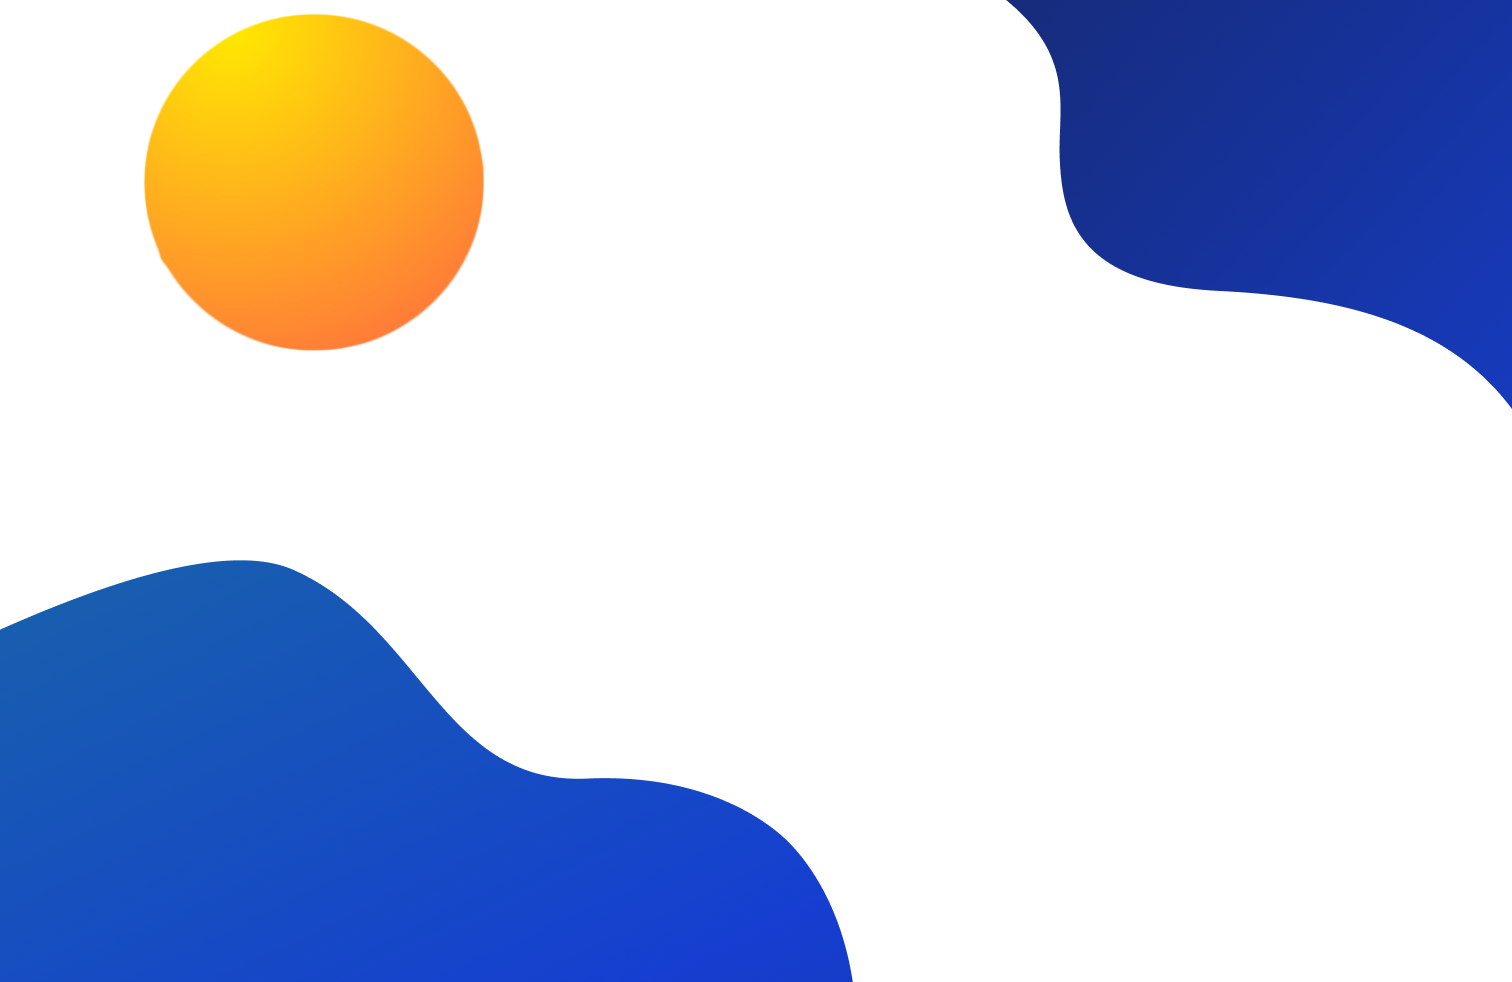
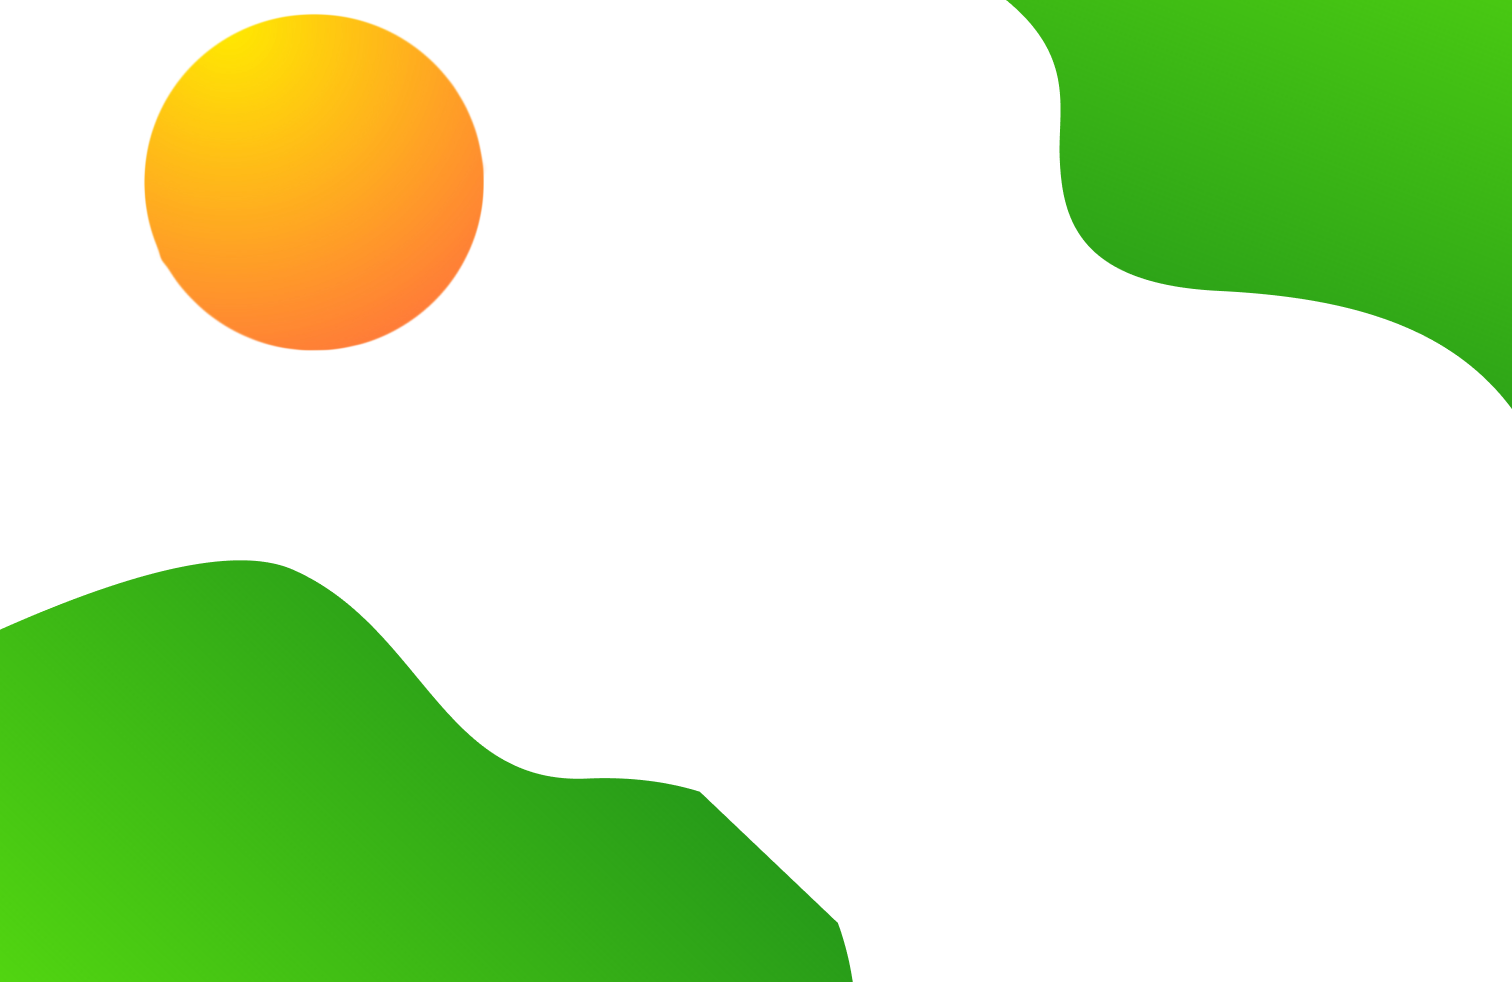
Update fill color of EyeFilledIcon and EyeSlashFilledIcon components to use success color

Changed region(s): [[0.0, 0.5499, 0.5906, 1.0], [0.6528, 0.0, 1.0, 0.4277]]

diff --git a/src/components/Auth/EyeSlashFilledIcon/EyeSlashFilledIcon.jsx b/src/components/Auth/EyeSlashFilledIcon/EyeSlashFilledIcon.jsx
@@ -12,23 +12,23 @@ export const EyeSlashFilledIcon = (props) => (
   >
     <path
       d="M21.2714 9.17834C20.9814 8.71834 20.6714 8.28834 20.3514 7.88834C19.9814 7.41834 19.2814 7.37834 18.8614 7.79834L15.8614 10.7983C16.0814 11.4583 16.1214 12.2183 15.9214 13.0083C15.5714 14.4183 14.4314 15.5583 13.0214 15.9083C12.2314 16.1083 11.4714 16.0683 10.8114 15.8483C10.8114 15.8483 9.38141 17.2783 8.35141 18.3083C7.85141 18.8083 8.01141 19.6883 8.68141 19.9483C9.75141 20.3583 10.8614 20.5683 12.0014 20.5683C13.7814 20.5683 15.5114 20.0483 17.0914 19.0783C18.7014 18.0783 20.1514 16.6083 21.3214 14.7383C22.2714 13.2283 22.2214 10.6883 21.2714 9.17834Z"
-      fill="currentColor"
+      fill="#4DAE08"
     />
     <path
       d="M14.0206 9.98062L9.98062 14.0206C9.47062 13.5006 9.14062 12.7806 9.14062 12.0006C9.14062 10.4306 10.4206 9.14062 12.0006 9.14062C12.7806 9.14062 13.5006 9.47062 14.0206 9.98062Z"
-      fill="currentColor"
+      fill="#4DAE08"
     />
     <path
       d="M18.25 5.74969L14.86 9.13969C14.13 8.39969 13.12 7.95969 12 7.95969C9.76 7.95969 7.96 9.76969 7.96 11.9997C7.96 13.1197 8.41 14.1297 9.14 14.8597L5.76 18.2497H5.75C4.64 17.3497 3.62 16.1997 2.75 14.8397C1.75 13.2697 1.75 10.7197 2.75 9.14969C3.91 7.32969 5.33 5.89969 6.91 4.91969C8.49 3.95969 10.22 3.42969 12 3.42969C14.23 3.42969 16.39 4.24969 18.25 5.74969Z"
-      fill="currentColor"
+      fill="#4DAE08"
     />
     <path
       d="M14.8581 11.9981C14.8581 13.5681 13.5781 14.8581 11.9981 14.8581C11.9381 14.8581 11.8881 14.8581 11.8281 14.8381L14.8381 11.8281C14.8581 11.8881 14.8581 11.9381 14.8581 11.9981Z"
-      fill="currentColor"
+      fill="#4DAE08"
     />
     <path
       d="M21.7689 2.22891C21.4689 1.92891 20.9789 1.92891 20.6789 2.22891L2.22891 20.6889C1.92891 20.9889 1.92891 21.4789 2.22891 21.7789C2.37891 21.9189 2.56891 21.9989 2.76891 21.9989C2.96891 21.9989 3.15891 21.9189 3.30891 21.7689L21.7689 3.30891C22.0789 3.00891 22.0789 2.52891 21.7689 2.22891Z"
-      fill="currentColor"
+      fill="#4DAE08"
     />
   </svg>
 );

diff --git a/src/pages/Login/Login.jsx b/src/pages/Login/Login.jsx
@@ -98,7 +98,7 @@ export default function Login() {
                 value={email}
                 autoComplete="email"
                 onChange={(e) => setEmail(e.target.value)}
-                color="primary"
+                color="success"
                 radius="lg"
                 classNames={{
                   label: "text-blue-default font-inter",
@@ -122,7 +122,7 @@ export default function Login() {
               />
               <Input
                 label="Password"
-                color="primary"
+                color="success"
                 value={password}
                 autoComplete="current-password"
                 onChange={(e) => setPassword(e.target.value)}
@@ -164,7 +164,7 @@ export default function Login() {
                 <button
                   onClick={(e) => signIn(e)}
                   type="submit"
-                  className="w-fit text-white-default bg-blue-default focus:ring-4 focus:outline-none focus:bg-white-default focus:text-blue-dark focus:ring-primary-300 font-medium rounded-lg text-sm px-5 py-2.5 text-center"
+                  className="w-fit text-white-default bg-blue-default focus:ring-4 focus:outline-none focus:bg-white-default focus:text-blue-dark focus:ring-success-300 font-medium rounded-lg text-sm px-5 py-2.5 text-center"
                 >
                   Sign in
                 </button>

diff --git a/src/components/Auth/EyeFilledIcon/EyeFilledIcon.jsx b/src/components/Auth/EyeFilledIcon/EyeFilledIcon.jsx
@@ -12,11 +12,11 @@ export const EyeFilledIcon = (props) => (
   >
     <path
       d="M21.25 9.14969C18.94 5.51969 15.56 3.42969 12 3.42969C10.22 3.42969 8.49 3.94969 6.91 4.91969C5.33 5.89969 3.91 7.32969 2.75 9.14969C1.75 10.7197 1.75 13.2697 2.75 14.8397C5.06 18.4797 8.44 20.5597 12 20.5597C13.78 20.5597 15.51 20.0397 17.09 19.0697C18.67 18.0897 20.09 16.6597 21.25 14.8397C22.25 13.2797 22.25 10.7197 21.25 9.14969ZM12 16.0397C9.76 16.0397 7.96 14.2297 7.96 11.9997C7.96 9.76969 9.76 7.95969 12 7.95969C14.24 7.95969 16.04 9.76969 16.04 11.9997C16.04 14.2297 14.24 16.0397 12 16.0397Z"
-      fill="currentColor"
+      fill="#4DAE08"
     />
     <path
       d="M11.9984 9.14062C10.4284 9.14062 9.14844 10.4206 9.14844 12.0006C9.14844 13.5706 10.4284 14.8506 11.9984 14.8506C13.5684 14.8506 14.8584 13.5706 14.8584 12.0006C14.8584 10.4306 13.5684 9.14062 11.9984 9.14062Z"
-      fill="currentColor"
+      fill="#4DAE08"
     />
   </svg>
 );

diff --git a/tailwind.config.js b/tailwind.config.js
@@ -20,7 +20,7 @@ export default {
       colors: {
        blue :{
           dark: '#172048',
-          default: '#153ED0',
+          default: '#4DAE08',
           teal: '#1A8486',
 
         },
